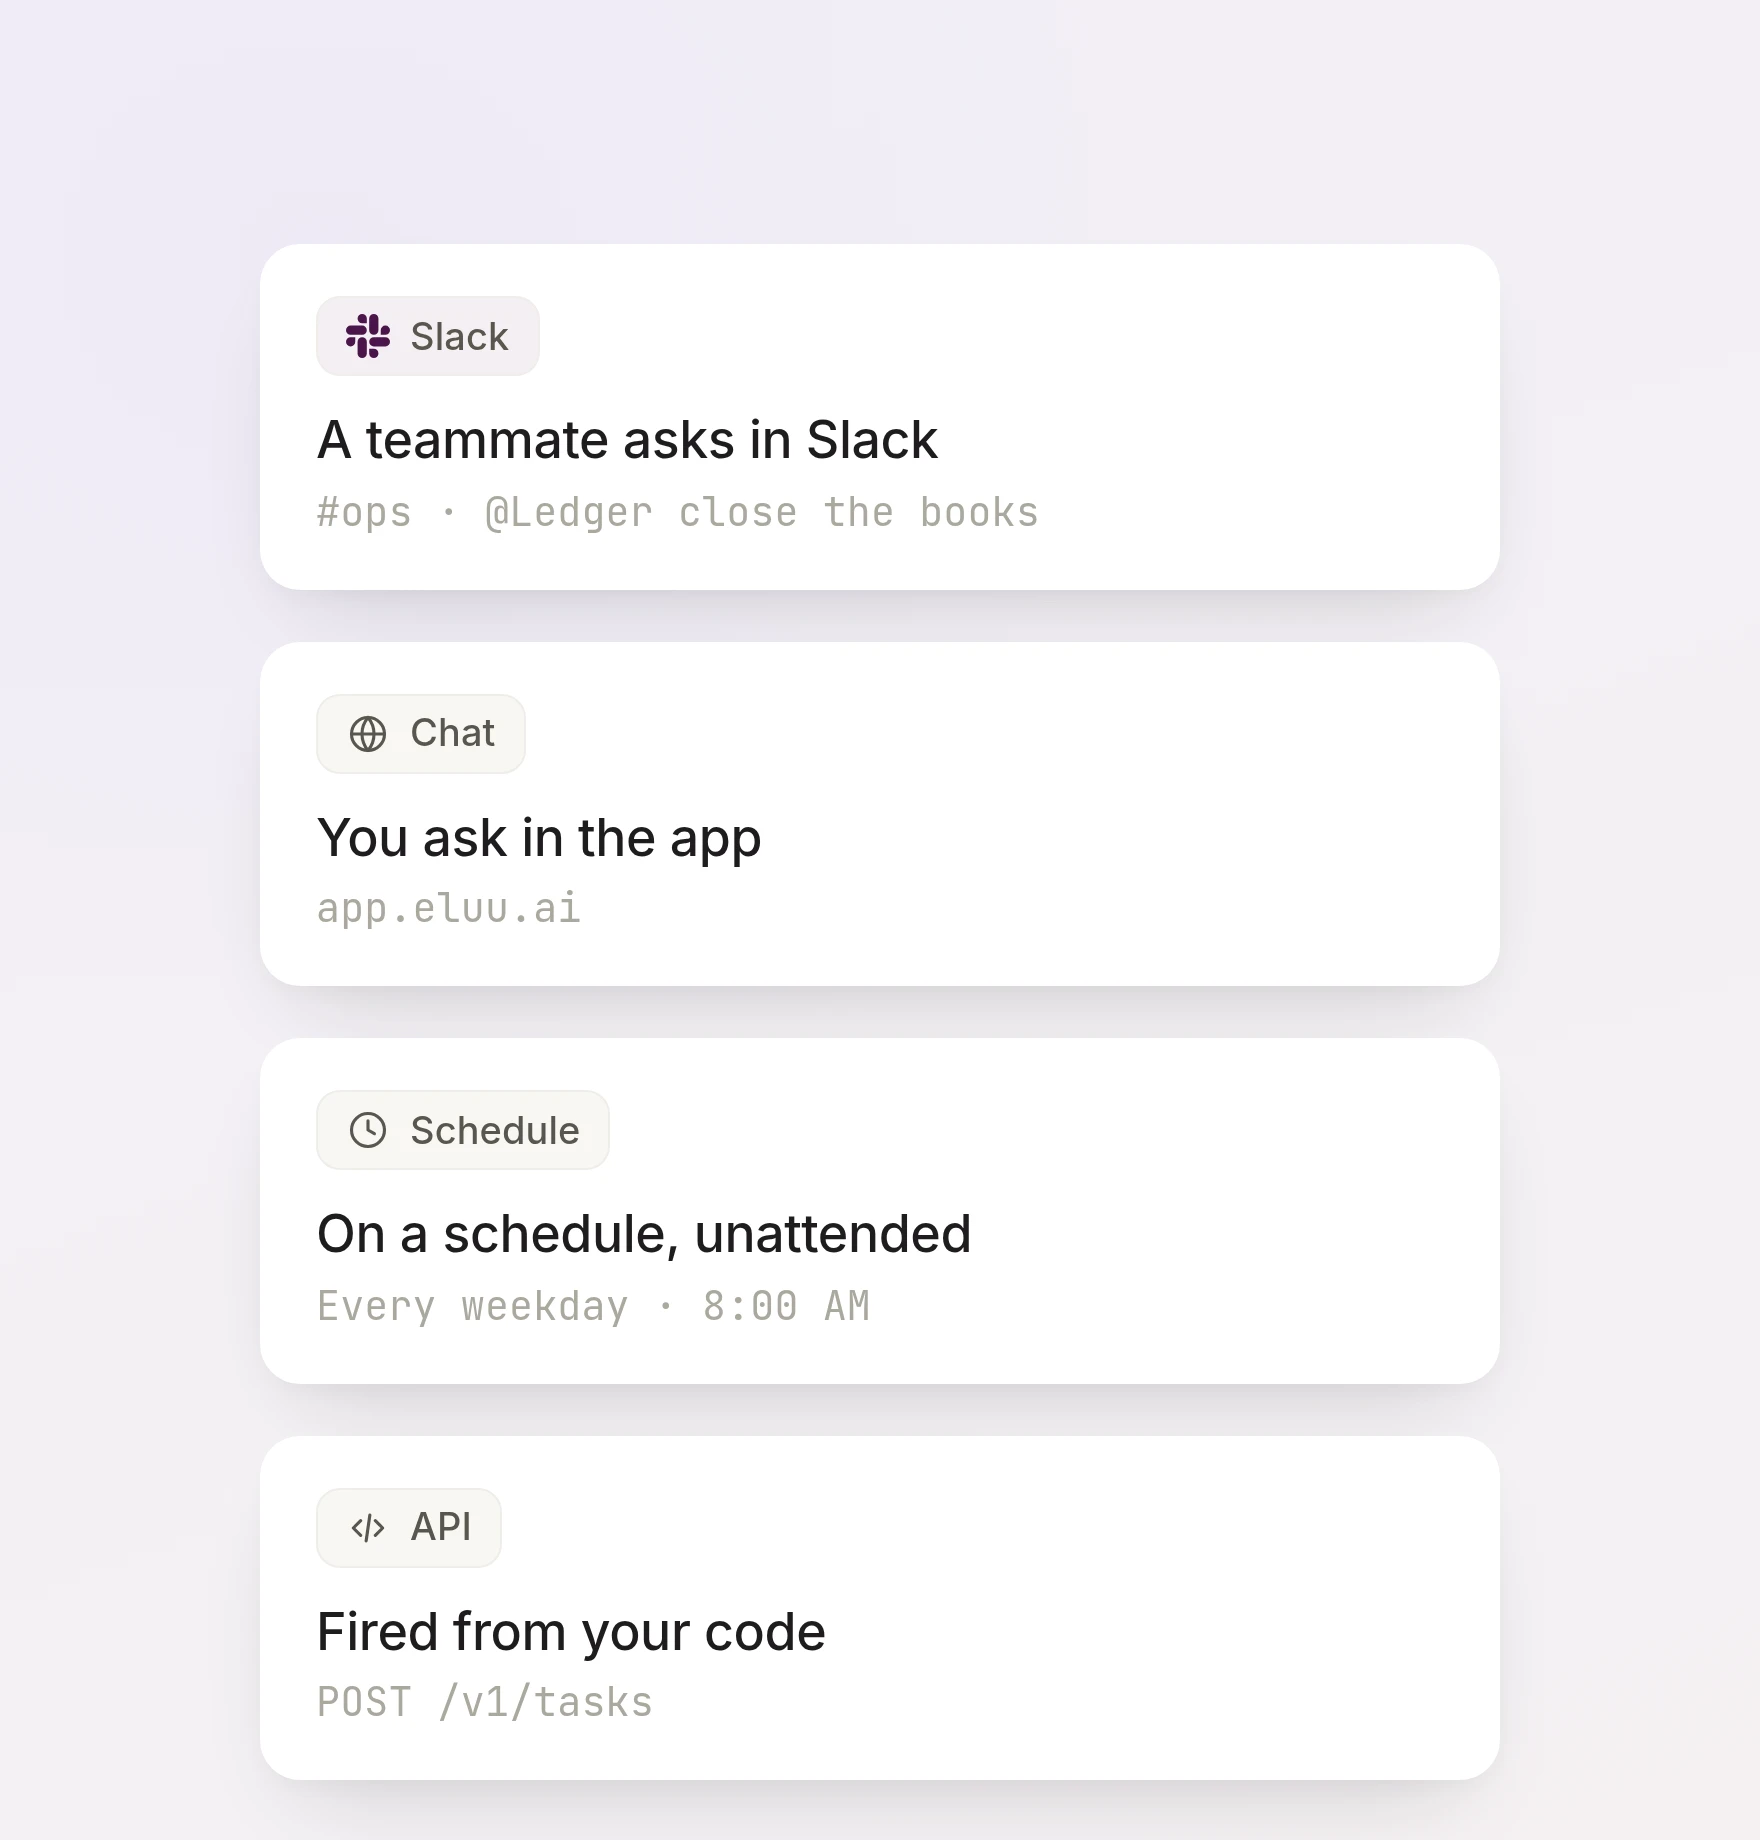
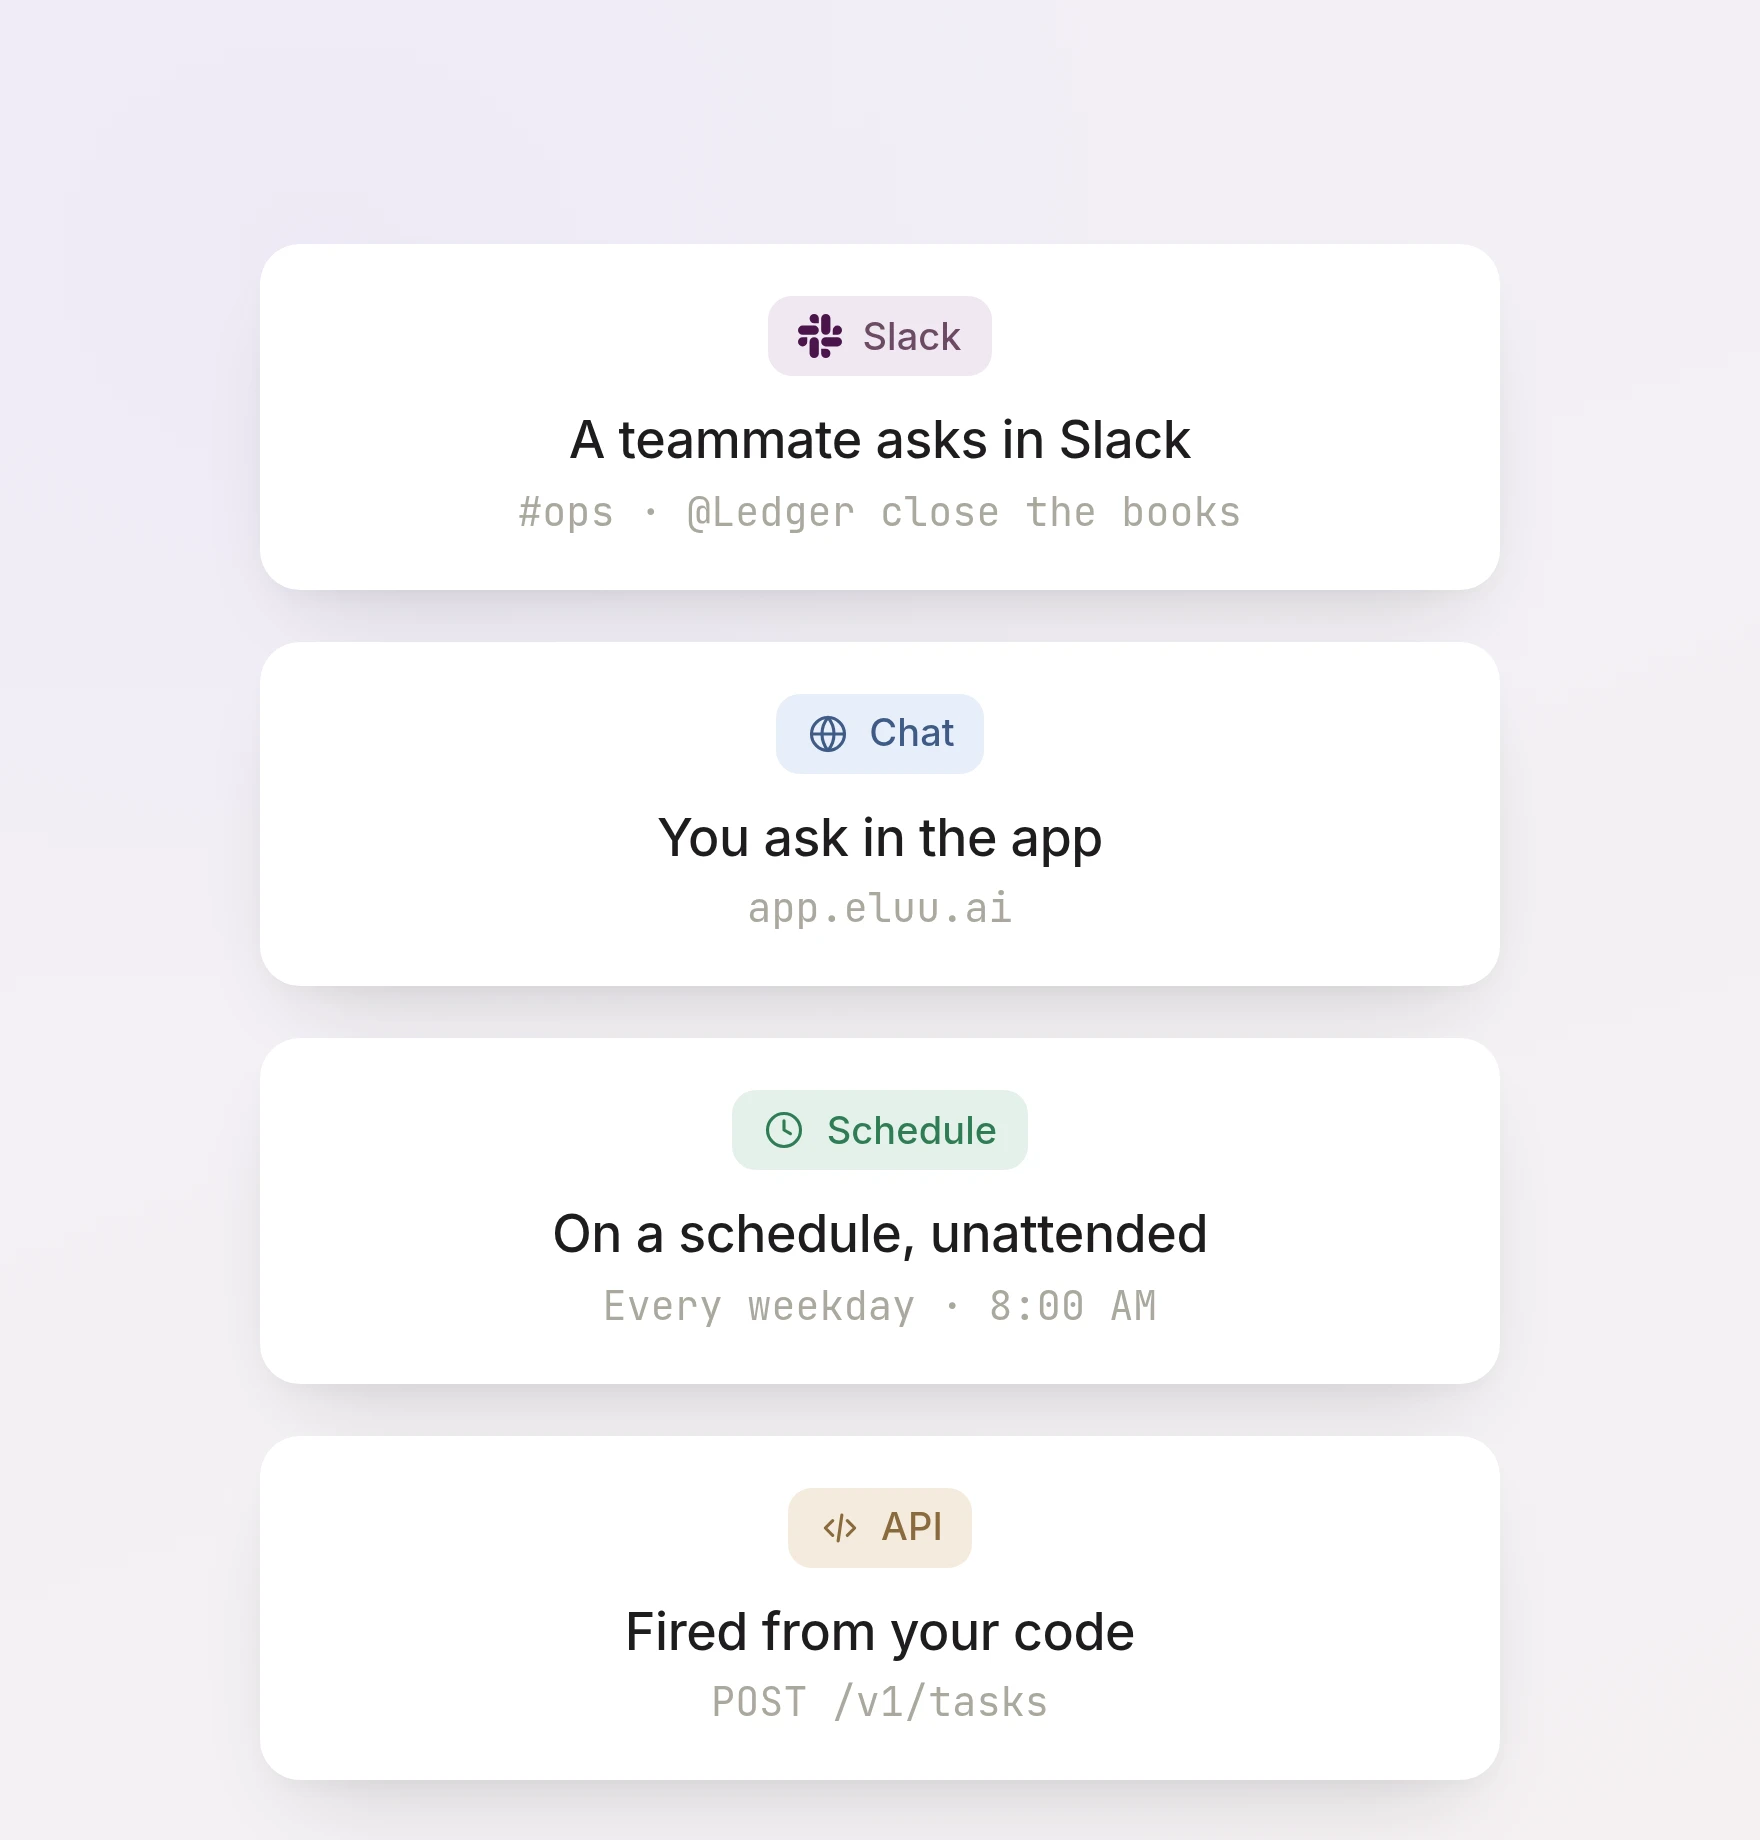
feat(agents): polish pass + hide 'Under the hood'
- Run from anywhere: chips now distinct soft colors per source (plum
  Slack, blue Chat, green Schedule, amber API), content centered
- Bring your model: Claude Opus 5, each model an individual card
- Learns your business: more spacing between the stacked memory cards
- PillarPage: comment out the 'Under the hood' technical section on all
  four pillar pages (data retained; uncomment to restore)

diff --git a/art-src/agents/feat5-model.html b/art-src/agents/feat5-model.html
@@ -1,44 +1,49 @@
 <!DOCTYPE html><html lang="en"><head><meta charset="utf-8"><link rel="stylesheet" href="_kit.css">
 <style>
-  /* structures the kit doesn't cover: the maroon-soft selected band + left accent
-     bar, its small "Your subscription" pill, and monochrome-ink brand marks. */
-  .mk svg { width: 26px; height: 26px; color: var(--ink); }
-  .row--sel { position: relative; background: var(--maroon-soft); }
-  .row--sel::before { content: ""; position: absolute; left: 0; top: 0; bottom: 0; width: 4px; background: var(--maroon); }
-  .pill--sub {
-    display: inline-flex; align-items: center; flex: none; white-space: nowrap;
-    height: 32px; padding: 0 14px; border-radius: 10px;
-    background: var(--maroon); color: #fff; font-size: 17px; font-weight: 530;
+  /* Krishna: individual cards (not rows in one card), Claude Opus 5. Each model
+     is its own card; the selected Claude card carries the maroon band + accent
+     bar + "Your subscription" pill + filled radio = the one maroon moment. */
+  .mstack { display:flex; flex-direction:column; align-items:center; gap:22px; width:640px; }
+  .mcard {
+    position:relative; width:640px; display:flex; align-items:center; gap:20px;
+    background:var(--panel); border-radius:18px; padding:24px 26px; overflow:hidden;
+    box-shadow: 0 20px 44px -22px rgba(30,28,30,.16), 0 4px 12px -6px rgba(30,28,30,.06);
   }
+  .mcard--sel { background:var(--maroon-soft); }
+  .mcard--sel::before { content:""; position:absolute; left:0; top:0; bottom:0; width:5px; background:var(--maroon); }
+  .mcard__mk { width:30px; height:30px; flex:none; color:var(--ink); }
+  .mcard__mk svg { width:100%; height:100%; display:block; }
+  .mcard__b { min-width:0; flex:1; }
+  .mcard__t { font-size:27px; font-weight:480; letter-spacing:-.01em; color:var(--ink); }
+  .mcard__s { font-size:20px; color:var(--soft); margin-top:3px; }
+  .mcard__sub { display:inline-flex; align-items:center; flex:none; white-space:nowrap;
+    height:34px; padding:0 15px; border-radius:11px; background:var(--maroon); color:#fff;
+    font-size:17px; font-weight:530; }
+  .rad { width:30px; height:30px; border-radius:50%; flex:none; border:2.5px solid #dedbd6; }
+  .rad--on { border-color:var(--maroon); background:var(--maroon); box-shadow: inset 0 0 0 6px #fff; }
 </style>
 </head><body>
-<!-- RULE 1+4: bare header glyph, radios stay the ONE status lane at the right
-     edge (unchanged from the approved shape). RULE 7: the selected-row band +
-     accent bar + pill + filled radio read as ONE maroon accent moment, not four. -->
 <div class="stage cv-lav">
-  <div class="card">
-    <div class="hd hd--band">
-      <span class="hd__g"><svg viewBox="0 0 24 24" fill="none" stroke="currentColor" stroke-width="1.7" stroke-linecap="round" stroke-linejoin="round"><path d="M12 3l2.2 5.6L20 10.5l-5.8 2L12 18l-2.2-5.5L4 10.5l5.8-1.9z"/></svg></span>
-      <span class="hd__t">Model</span>
-      <span class="hd__r"><span class="pill pill--mono">no lock-in</span></span>
+  <div class="mstack">
+
+    <div class="mcard mcard--sel">
+      <span class="mcard__mk"><svg viewBox="0 0 24 24" fill="none" stroke="currentColor" stroke-width="1.8" stroke-linecap="round"><path d="M12 2v20M2 12h20M5.05 5.05l13.9 13.9M18.95 5.05L5.05 18.95"/></svg></span>
+      <span class="mcard__b"><div class="mcard__t">Claude Opus 5</div><div class="mcard__s">On your Claude subscription</div></span>
+      <span class="mcard__sub">Your subscription</span>
+      <span class="rad rad--on"></span>
     </div>
-    <div class="list">
-      <div class="row row--sel">
-        <span class="mk"><svg viewBox="0 0 24 24" fill="none" stroke="currentColor" stroke-width="1.8" stroke-linecap="round"><path d="M12 2v20M2 12h20M5.05 5.05l13.9 13.9M18.95 5.05L5.05 18.95"/></svg></span>
-        <span class="row__b"><div class="row__t">Claude Opus 4.5</div><div class="row__s">On your Claude subscription</div></span>
-        <span class="pill--sub">Your subscription</span>
-        <span class="st st--pick is-on"></span>
-      </div>
-      <div class="row">
-        <span class="mk"><svg viewBox="0 0 24 24" fill="none" stroke="currentColor" stroke-width="1.6" stroke-linejoin="round" stroke-linecap="round"><path d="M12 2.5L20.2 7.25V16.75L12 21.5L3.8 16.75V7.25Z"/><path d="M12 7.5L16.5 10V15L12 17.5L7.5 15V10Z"/></svg></span>
-        <span class="row__b"><div class="row__t">Codex</div><div class="row__s">On your OpenAI plan</div></span>
-        <span class="st st--pick"></span>
-      </div>
-      <div class="row">
-        <span class="mk"><svg viewBox="0 0 24 24" fill="none" stroke="currentColor" stroke-width="1.7" stroke-linecap="round" stroke-linejoin="round"><circle cx="8" cy="15" r="4"/><path d="M11 12l9-9M17 6l3 3M14 9l2 2"/></svg></span>
-        <span class="row__b"><div class="row__t">Any open model</div><div class="row__s">Your own API keys</div></span>
-        <span class="st st--pick"></span>
-      </div>
+
+    <div class="mcard">
+      <span class="mcard__mk"><svg viewBox="0 0 24 24" fill="none" stroke="currentColor" stroke-width="1.6" stroke-linejoin="round" stroke-linecap="round"><path d="M12 2.5L20.2 7.25V16.75L12 21.5L3.8 16.75V7.25Z"/><path d="M12 7.5L16.5 10V15L12 17.5L7.5 15V10Z"/></svg></span>
+      <span class="mcard__b"><div class="mcard__t">Codex</div><div class="mcard__s">On your OpenAI plan</div></span>
+      <span class="rad"></span>
     </div>
+
+    <div class="mcard">
+      <span class="mcard__mk"><svg viewBox="0 0 24 24" fill="none" stroke="currentColor" stroke-width="1.7" stroke-linecap="round" stroke-linejoin="round"><circle cx="8" cy="15" r="4"/><path d="M11 12l9-9M17 6l3 3M14 9l2 2"/></svg></span>
+      <span class="mcard__b"><div class="mcard__t">Any open model</div><div class="mcard__s">Your own API keys</div></span>
+      <span class="rad"></span>
+    </div>
+
   </div>
 </div></body></html>

diff --git a/art-src/agents/feat2-anywhere.html b/art-src/agents/feat2-anywhere.html
@@ -5,23 +5,27 @@
      chip's tint, per spec's "e.g. the chip icon tint"). No status lane anywhere. -->
 <style>
 .tstack{ display:flex; flex-direction:column; align-items:center; gap:26px; width:620px; transform: translateY(46px); }
-.tcard{ width:620px; background:var(--panel); border-radius:20px; padding:26px 28px;
+/* everything centered (Krishna) */
+.tcard{ width:620px; background:var(--panel); border-radius:20px; padding:26px 28px; text-align:center;
   box-shadow: 0 22px 48px -22px rgba(30,28,30,.18), 0 5px 14px -6px rgba(30,28,30,.06); }
-.tcard__chip{ display:inline-flex; align-items:center; gap:10px; height:40px; padding:0 14px;
-  border-radius:12px; background:var(--tint); border:1px solid var(--hair); margin-bottom:16px; }
-.tcard__chip--accent{ background:var(--maroon-soft); }
+.tcard__chip{ display:inline-flex; align-items:center; gap:10px; height:40px; padding:0 15px;
+  border-radius:12px; margin:0 auto 16px; }
 .tcard__chipicon{ width:22px; height:22px; flex:none; display:block; }
-.tcard__chipicon--glyph{ color:var(--sub); }
 .tcard__chipicon--glyph svg{ width:100%; height:100%; display:block; }
-.tcard__chiplabel{ font-size:19px; font-weight:480; color:var(--sub); }
+.tcard__chiplabel{ font-size:19px; font-weight:480; }
 .tcard__title{ font-size:26px; font-weight:480; letter-spacing:-.008em; line-height:1.25; color:var(--ink); }
 .tcard__sub{ font-family:var(--mono); font-size:20px; color:var(--soft); margin-top:6px; }
+/* distinct soft pill colors per source (Krishna) — muted, on-brand-adjacent */
+.chip-slack{ background:#f0e7f2; } .chip-slack .tcard__chiplabel,.chip-slack .tcard__chipicon--glyph{ color:#6b4a63; }
+.chip-chat{ background:#e7eef8; } .chip-chat .tcard__chiplabel,.chip-chat .tcard__chipicon--glyph{ color:#3f5a86; }
+.chip-schedule{ background:#e5f1ea; } .chip-schedule .tcard__chiplabel,.chip-schedule .tcard__chipicon--glyph{ color:#2f7d54; }
+.chip-api{ background:#f4ebdd; } .chip-api .tcard__chiplabel,.chip-api .tcard__chipicon--glyph{ color:#8a6a3e; }
 </style>
 <div class="stage cv-lav">
   <div class="tstack">
 
     <div class="tcard">
-      <span class="tcard__chip tcard__chip--accent">
+      <span class="tcard__chip chip-slack">
         <img class="tcard__chipicon" src="live/assets/slack.svg" alt="">
         <span class="tcard__chiplabel">Slack</span>
       </span>
@@ -30,7 +34,7 @@
     </div>
 
     <div class="tcard">
-      <span class="tcard__chip">
+      <span class="tcard__chip chip-chat">
         <span class="tcard__chipicon tcard__chipicon--glyph"><svg viewBox="0 0 24 24" fill="none" stroke="currentColor" stroke-width="1.7" stroke-linecap="round" stroke-linejoin="round"><circle cx="12" cy="12" r="9"/><path d="M3 12h18M12 3a14 14 0 0 1 0 18M12 3a14 14 0 0 0 0 18"/></svg></span>
         <span class="tcard__chiplabel">Chat</span>
       </span>
@@ -39,7 +43,7 @@
     </div>
 
     <div class="tcard">
-      <span class="tcard__chip">
+      <span class="tcard__chip chip-schedule">
         <span class="tcard__chipicon tcard__chipicon--glyph"><svg viewBox="0 0 24 24" fill="none" stroke="currentColor" stroke-width="1.7" stroke-linecap="round" stroke-linejoin="round"><circle cx="12" cy="12" r="9"/><path d="M12 7v5l3.5 2"/></svg></span>
         <span class="tcard__chiplabel">Schedule</span>
       </span>
@@ -48,7 +52,7 @@
     </div>
 
     <div class="tcard">
-      <span class="tcard__chip">
+      <span class="tcard__chip chip-api">
         <span class="tcard__chipicon tcard__chipicon--glyph"><svg viewBox="0 0 24 24" fill="none" stroke="currentColor" stroke-width="1.7" stroke-linecap="round" stroke-linejoin="round"><path d="M8 8l-4 4 4 4M16 8l4 4-4 4M13 5l-2 14"/></svg></span>
         <span class="tcard__chiplabel">API</span>
       </span>

diff --git a/art-src/agents/feat6-learns.html b/art-src/agents/feat6-learns.html
@@ -5,7 +5,7 @@
      Now steps 82px: front card fully readable, each next reveals its title +
      label, back two recede with blur. One maroon accent: the newest-card dot. -->
 <style>
-  .mem-stack { position: relative; width: 640px; height: 470px; }
+  .mem-stack { position: relative; width: 640px; height: 560px; }
   .mem-card {
     position: absolute; left: 50%; width: 620px;
     background: var(--panel); border-radius: 18px; padding: 20px 26px;
@@ -13,11 +13,12 @@
     box-shadow: 0 16px 34px -16px rgba(30, 28, 30, .17), 0 4px 11px -5px rgba(30, 28, 30, .06);
   }
   /* step 82px = title band (pad 20 + title 30 + label 22) fully clears the card above */
+  /* Krishna: more spacing between cards — each fully separated with a clear gap */
   .mem-c1 { transform: translateX(-50%) translateY(0px)   scale(1);    z-index: 6; }
-  .mem-c2 { transform: translateX(-50%) translateY(96px)  scale(.99);  z-index: 5; }
-  .mem-c3 { transform: translateX(-50%) translateY(192px) scale(.98);  z-index: 4; }
-  .mem-c4 { transform: translateX(-50%) translateY(285px) scale(.965); z-index: 3; opacity: .62; filter: blur(.7px); }
-  .mem-c5 { transform: translateX(-50%) translateY(372px) scale(.95);  z-index: 2; opacity: .3;  filter: blur(1.8px); }
+  .mem-c2 { transform: translateX(-50%) translateY(120px) scale(.99);  z-index: 5; }
+  .mem-c3 { transform: translateX(-50%) translateY(240px) scale(.98);  z-index: 4; }
+  .mem-c4 { transform: translateX(-50%) translateY(356px) scale(.965); z-index: 3; opacity: .6;  filter: blur(.7px); }
+  .mem-c5 { transform: translateX(-50%) translateY(464px) scale(.95);  z-index: 2; opacity: .28; filter: blur(1.8px); }
   .mem-t { font-size: 26px; font-weight: 450; letter-spacing: -.008em; line-height: 1.2; color: var(--ink); display: flex; align-items: center; gap: 11px; }
   .mem-s { font-size: 19px; color: var(--soft); margin-top: 5px; line-height: 1.3; }
   .mem-dot { width: 9px; height: 9px; border-radius: 50%; background: var(--maroon); flex: none; }
